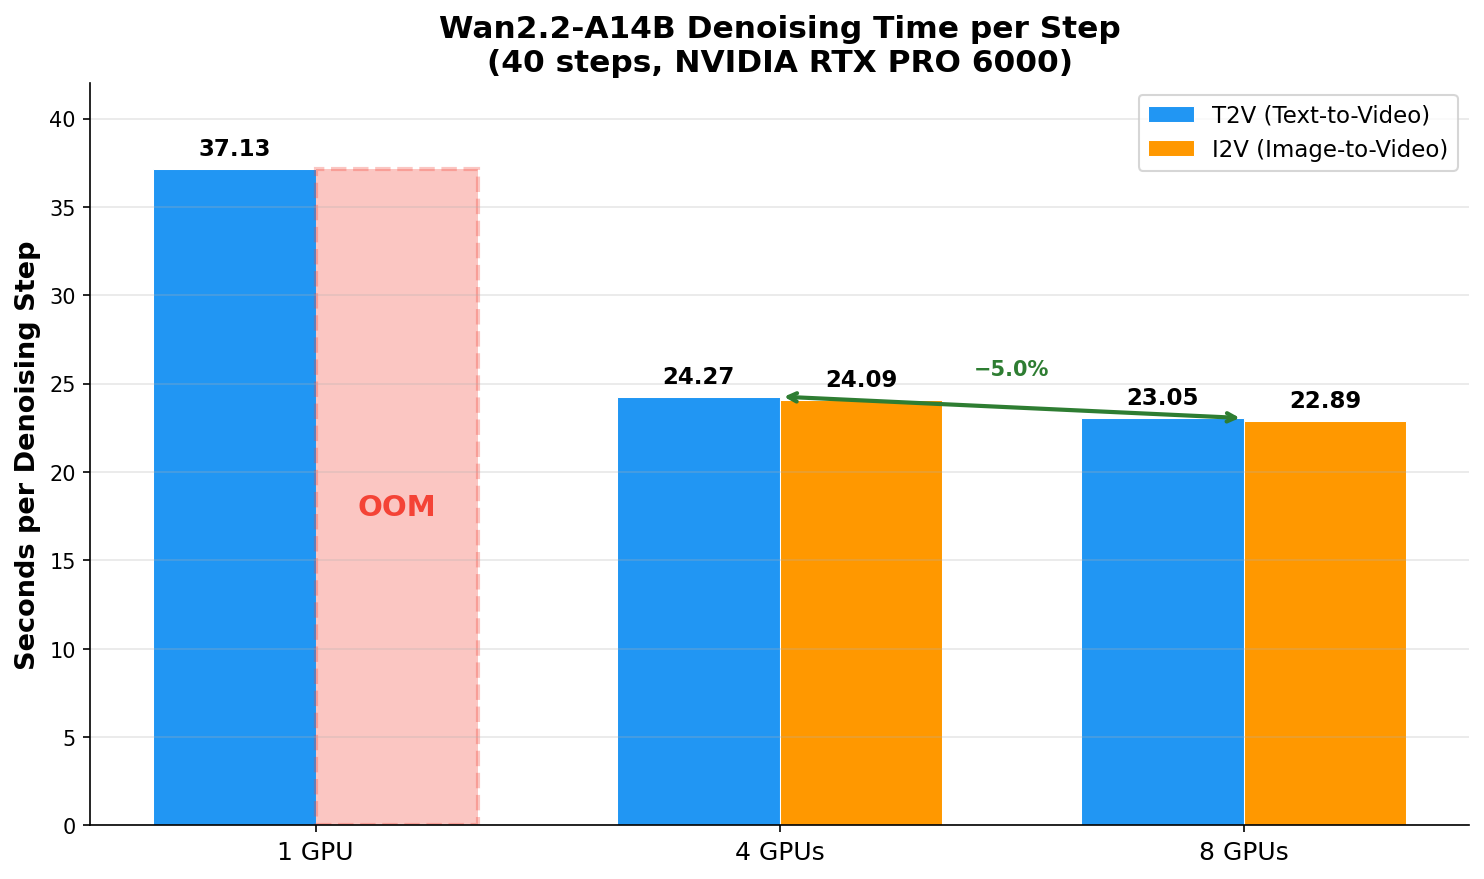
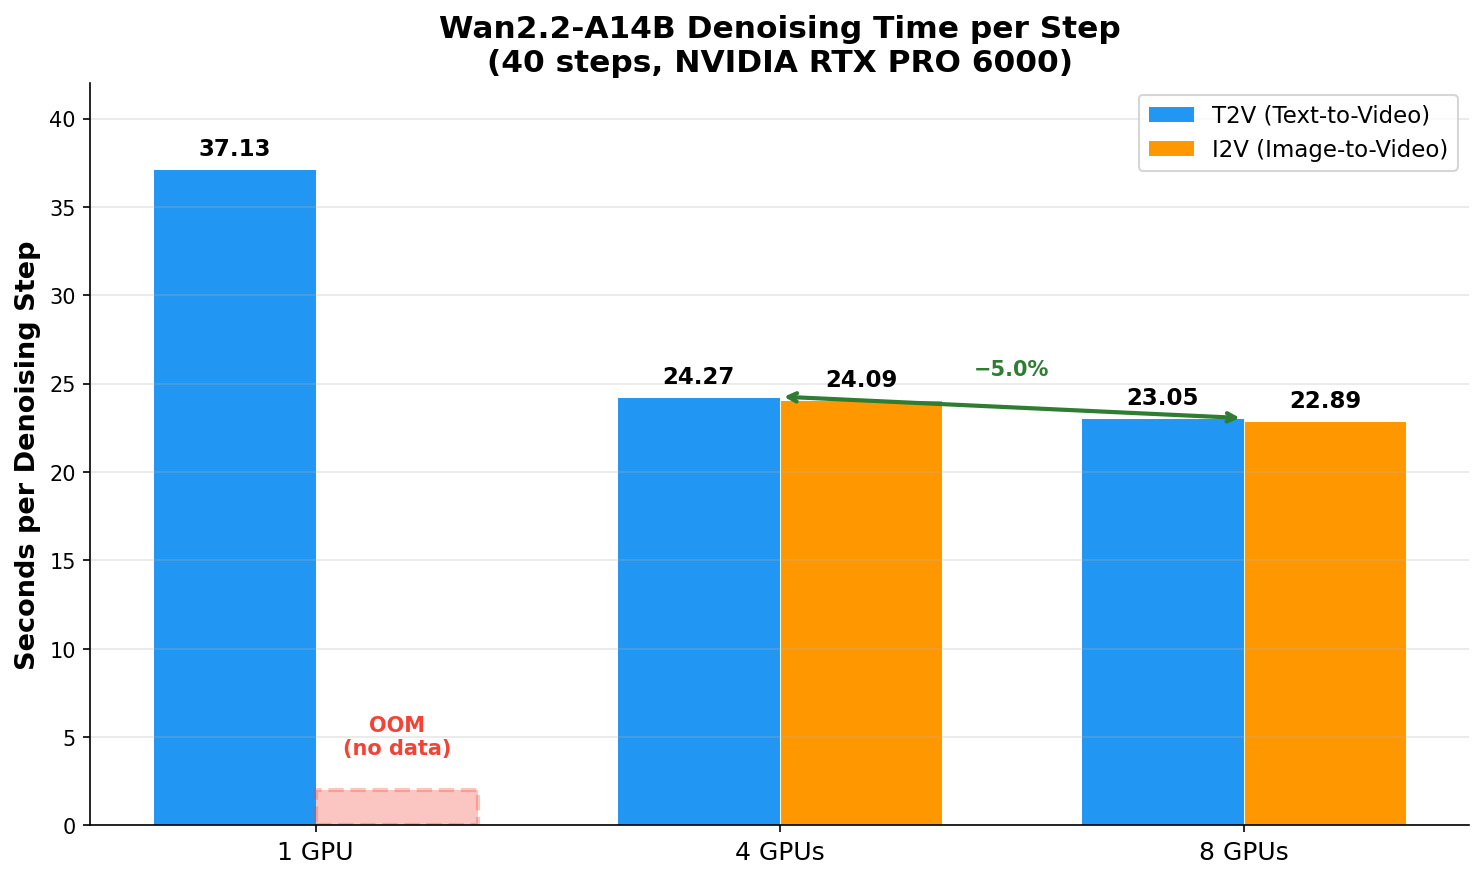
Audit fixes: correct OOM data to match raw logs, fix set -e abort issue, fix plot accuracy, correct guidance_scale for I2V

Changed region(s): [[0.186, 0.1843, 0.341, 0.9215]]

diff --git a/generate_plots.py b/generate_plots.py
@@ -43,11 +43,11 @@ bars1 = ax.bar(x - width/2, t2v_steps, width, label='T2V (Text-to-Video)',
 bars2 = ax.bar(x + width/2, [s if s > 0 else 0 for s in i2v_steps], width, 
                label='I2V (Image-to-Video)', color=COLORS['orange'], edgecolor='white', linewidth=0.5)
 
-# Mark OOM
-ax.bar(x[0] + width/2, 37.13, width, color=COLORS['red'], alpha=0.3, 
+# Mark OOM for I2V 1-GPU (no timing data available - OOM before denoising)
+ax.bar(x[0] + width/2, 2, width, color=COLORS['red'], alpha=0.3, 
        edgecolor=COLORS['red'], linewidth=2, linestyle='--')
-ax.text(x[0] + width/2, 18, 'OOM', ha='center', va='center', fontweight='bold', 
-        color=COLORS['red'], fontsize=14)
+ax.text(x[0] + width/2, 5, 'OOM\n(no data)', ha='center', va='center', fontweight='bold', 
+        color=COLORS['red'], fontsize=10)
 
 # Add value labels
 for bar in bars1:
@@ -85,7 +85,7 @@ print("✅ Plot 1: Denoising time per step")
 fig, ax = plt.subplots(figsize=(10, 5))
 
 labels = ['I2V 8-GPU', 'I2V 4-GPU', 'I2V 1-GPU', '', 'T2V 8-GPU', 'T2V 4-GPU', 'T2V 1-GPU']
-times = [947.54, 995.00, 0, 0, 944.01, 993.15, 1501.9]
+times = [947.54, 995.00, 0, 0, 944.01, 993.15, 0]
 colors_list = [COLORS['orange'], COLORS['orange'], COLORS['red'], 'white',
                COLORS['blue'], COLORS['blue'], COLORS['red']]
 alphas = [1.0, 0.7, 0.4, 0, 1.0, 0.7, 0.4]
@@ -107,7 +107,7 @@ for i, (v, label) in enumerate(zip(times, labels)):
 ax.set_yticks(y_pos)
 ax.set_yticklabels(labels, fontsize=11)
 ax.set_xlabel('Total Generation Time (seconds)', fontsize=13, fontweight='bold')
-ax.set_title('End-to-End Video Generation Time\n(93 frames @ 1280×720, 40 denoising steps)', fontsize=15, fontweight='bold')
+ax.set_title('End-to-End Video Generation Time\n(1280×720, 40 denoising steps; 1-GPU=81fr, 4/8-GPU=93fr)', fontsize=15, fontweight='bold')
 ax.set_xlim(0, 1700)
 ax.grid(axis='x', alpha=0.3)
 ax.spines['top'].set_visible(False)

diff --git a/README.md b/README.md
@@ -119,7 +119,7 @@ Single GPU OOMs because the 14B model + activations exceed the 95GB usable VRAM.
 | Model | Stage | VRAM Used | VRAM Capacity | Needed |
 |-------|-------|-----------|---------------|--------|
 | T2V | DecodingStage (after 1485s denoising) | 94.55 GB | 94.98 GB | +1.02 GB |
-| I2V | Inference (at ImageVAEEncoding) | 94.11 GB | 94.98 GB | +1.97 GB |
+| I2V | ImageVAEEncodingStage | 93.75 GB | 94.98 GB | +1.96 GB |
 
 Both OOM because the recipe disables all CPU offloading (`--dit-layerwise-offload false --vae-cpu-offload false`).
 
@@ -286,7 +286,7 @@ The following changes were made from the [original Google recipe](https://github
 - GPU configuration: `--gpus all`, `--ipc=host`
 - Volume mounts: `/scratch:/scratch`, `/scratch/cache:/root/.cache`
 
-**Note on default parameters:** The values `infer_steps=40`, `seed=42`, `guidance_scale=4.0` are SGLang defaults — they are not specified in the recipe and were not set by us. They appear in the SGLang `server_args` log output.
+**Note on default parameters:** The values `infer_steps=40`, `seed=42` are SGLang defaults — they are not specified in the recipe and were not set by us. `guidance_scale` defaults to 4.0 for T2V and 3.5 for I2V. These appear in the SGLang `server_args` log output.
 
 **Raw logs:** Partial raw SGLang output logs are preserved in `results/raw_logs/`. The 4-GPU and 1-GPU results were captured via direct SSH sessions (not background tasks) and are only available in the conversation history, not as separate log files.
 
